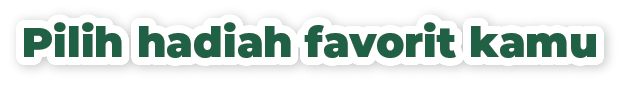
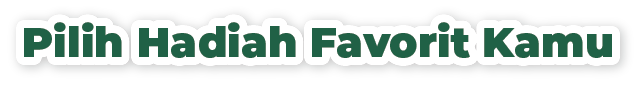
update

diff --git a/resources/views/frontend/includes/about-us.blade.php b/resources/views/frontend/includes/about-us.blade.php
@@ -7,18 +7,9 @@
                 </div>
             </h2>
             <p class="text-center">
-                <p>
-                    Greenfields Klub Ibu Extra merupakan program loyalty yang diselenggarakan oleh PT Greenfields Dairy Indonesia sebagai bentuk apresiasi bagi para ibu Indonesia yang sudah setia memilih Greenfields sebagai pilihan nutrisi keluarga. Kami juga berdedikasi untuk menjadi partner  dalam memberikan informasi terbaik untuk produk susu berkualitas dengan menyediakan berbagai aktivitas menarik, mulai dari informasi pengetahuan yang dapat diakses dengan mudah serta hadiah menarik.
-                </p>
-
-                <p>
-                    Yuk #StartFresh dengan Greenfields! Rasakan kesegaran Greenfields The Extra Milk. Kumpulkan poin sebanyak-banyaknya & dapatkan hadiah favoritmu!
-                </p>
-                {{-- Greenfields Klub Ibu Extra merupakan <i>loyalty program</i> yang diselenggarakan oleh PT Greenfields Dairy Indonesia sebagai bentuk apresiasi bagi para ibu Indonesia yang sudah setia memilih Greenfields sebagai pilihan nutrisi keluarga.
-
-                Kami juga berdedikasi untuk mengedukasi para ibu Indonesia supaya lebih bijak dalam memilih susu berkualitas terbaik dengan menyediakan berbagai aktivitas menarik, mulai dari artikel yang dapat diakses serta program Webinar/Kulwap. Yuk #StartFresh dengan Greenfields!
-
-                Kumpulkan poin sebanyak-banyaknya & dapatkan hadiah favoritmu. --}}
+                Greenfields Klub Ibu Extra merupakan program loyalty yang diselenggarakan oleh PT Greenfields Dairy Indonesia sebagai bentuk apresiasi bagi para ibu Indonesia yang sudah setia memilih Greenfields sebagai pilihan nutrisi keluarga. Kami juga berdedikasi untuk menjadi partner  dalam memberikan informasi terbaik untuk produk susu berkualitas dengan menyediakan berbagai aktivitas menarik, mulai dari informasi pengetahuan yang dapat diakses dengan mudah serta hadiah menarik.
+                <br>
+                Yuk #StartFresh dengan Greenfields! Rasakan kesegaran Greenfields The Extra Milk. Kumpulkan poin sebanyak-banyaknya & dapatkan hadiah favoritmu! Program berlaku hingga 31 Desember 2023.
             </p>
         </div>
     </div>

diff --git a/resources/views/frontend/user/dashboard.blade.php b/resources/views/frontend/user/dashboard.blade.php
@@ -76,7 +76,7 @@
 
                                             <div class="reward-detail-wrapper">
                                                 <h4 class="card-title text-center">{{ $reward->name }}</h4>
-                                                <p class="point">{{$reward->point}}pts</p>
+                                                <p class="point">{{number_format($reward->point, 0, ".", ".")}} pts</p>
                                             </div>
                                             @if ($reward->point > $logged_in_user->point)
                                                 <a class="btn mb-3 btn-rounded disabled btn-secondary btn-green" href="javascript:void(0)">TUKAR HADIAH</a>

diff --git a/config/greenfields.php b/config/greenfields.php
@@ -29,7 +29,7 @@ return [
         [
             'name' => 'Shopee',
             'title' => 'Shopee',
-            'url' => 'https://shopee.co.id/mall/search?keyword=greenfields&shop=379357698&trackingId=searchhint-1637205374-e305af3d-481d-11ec-b754-2cea7f471917',
+            'url' => 'https://shopee.co.id/mall/search?keyword=greenfields&shop=269483414',
             'image' => '/img/online-stores/shopee.png'
         ],
         [
@@ -59,7 +59,7 @@ return [
         [
             'name' => 'Segari',
             'title' => 'Segari',
-            'url' => '#',
+            'url' => 'https://segari.id/search?query=greenfields',
             'image' => '/img/online-stores/segari.png'
         ],
         [

diff --git a/app/Http/Controllers/Frontend/User/DashboardController.php b/app/Http/Controllers/Frontend/User/DashboardController.php
@@ -3,6 +3,7 @@
 namespace App\Http\Controllers\Frontend\User;
 
 use App\Models\Reward;
+use App\Models\Voucher;
 
 /**
  * Class DashboardController.
@@ -15,6 +16,15 @@ class DashboardController
     public function index()
     {
         $rewards = Reward::active()->latest()->take(5)->get();
+
+        $voucherInUser = Voucher::where('user_id', auth()->user()->id)->get();
+        if (!$voucherInUser->count()) {
+            $voucher = Voucher::whereNull('given_at')->first();
+            $voucher->update([
+                'user_id' => auth()->user()->id,
+                'given_at' => now()
+            ]);
+        }
 
         return view('frontend.user.dashboard', compact('rewards'));
     }
